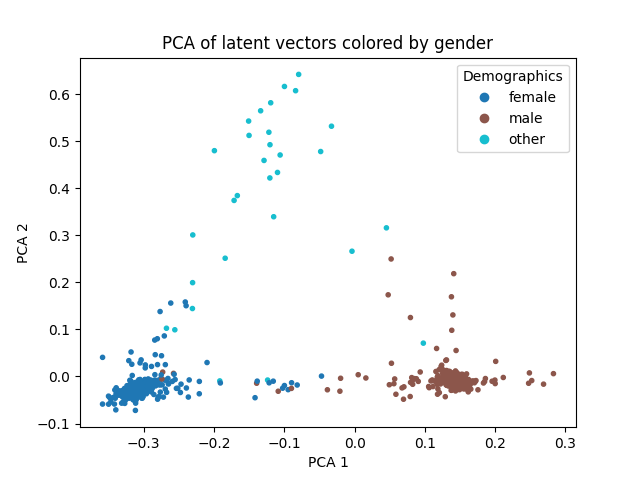
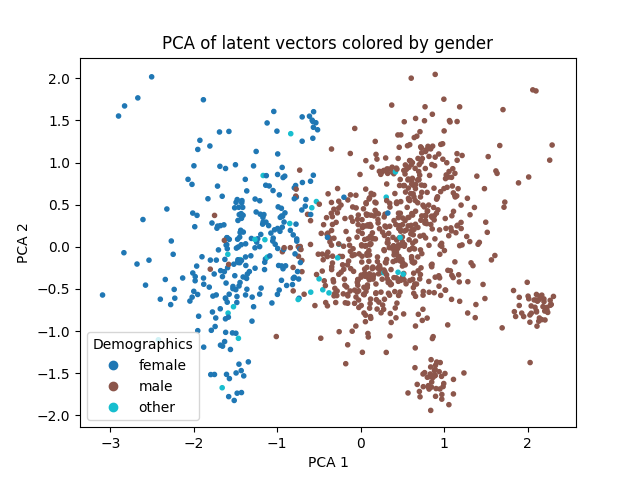
Steamline synthesis

diff --git a/ps_vae/data/vctk.py b/ps_vae/data/vctk.py
@@ -3,43 +3,57 @@ import torch
 import pickle
 from torch.utils.data import Dataset, DataLoader, random_split
 from typing import Dict, Union, Callable
+from ps_vae.utils import map_vctk_gender_to_label
+import pandas as pd
+
+METADATA_TRANSFORMS = {
+    "gender": lambda x: map_vctk_gender_to_label(x['gender']),
+}
 
 class VCTKEmbeddingDataset(Dataset):
-    def __init__(self, data_root: str, split: str = "train"):
+    def __init__(self, data_root: str, split: str = "train", metadata_transform: Union[str, None] = None):
         """
         Initialize the VCTK dataset.
 
         Args:
             data_root (str): Root directory containing speaker directories (e.g., "p001", "p002", ...).
             split (str): Data split indicator (unused in this version, kept for consistency).
+            metadata_transform (str, optional): Metadata transformation to apply to each sample. Defaults to None.
         """
         self.data_root = data_root
+        
+         # Setup function to parse metadata
+        if metadata_transform is not None:
+            assert metadata_transform in METADATA_TRANSFORMS, f"Invalid metadata transform: {metadata_transform}"
+            self.metadata_transform = METADATA_TRANSFORMS[metadata_transform]
+        else:
+            self.metadata_transform = None
+            
+        # Read metadata file
+        self.metadata = pd.read_csv(os.path.join(data_root, "vctk_metadata.csv"))
+        
         # Build a list of tuples: (embedding_file_path, speaker_id)
         self.data_files = []
 
-        # Loop over each speaker directory in the data_root that follows the "pXXX" pattern.
-        for speaker_dir in sorted(os.listdir(data_root)):
-            speaker_path = os.path.join(data_root, speaker_dir)
-            if os.path.isdir(speaker_path) and speaker_dir.startswith("p") and speaker_dir[1:].isdigit():
-                # Extract speaker ID by stripping the 'p' and converting the rest to an integer.
-                speaker_id = int(speaker_dir[1:])
-                # List all .pkl files in the speaker directory.
-                embedding_files = [f for f in os.listdir(speaker_path) if f.endswith(".pt")]
-                embedding_files.sort()
-                # Append each file's full path along with the speaker ID.
-                for file in embedding_files:
-                    full_path = os.path.join(speaker_path, file)
-                    self.data_files.append((full_path, speaker_id))
-
     def __len__(self):
-        return len(self.data_files)
+        return len(self.metadata)
 
     def __getitem__(self, idx: int):
-        embedding_file, speaker_id = self.data_files[idx]
-        # Load the embedding from the pkl file.
-        with open(embedding_file, "rb") as f:
-            embedding = torch.load(f, map_location='cpu', weights_only=False).squeeze()
-        return embedding, speaker_id
+        
+        sample_data = self.metadata.iloc[idx]
+        
+        filename = sample_data['filename'].replace('.wav', '.pt')
+        speaker_id = sample_data['speaker_id']
+
+        if self.metadata_transform is not None:  # Apply transform if provided
+            metadata = self.metadata_transform(sample_data)
+
+        else:
+            # Load embedding
+            embed_file = os.path.join(self.data_root, f"p{speaker_id}", filename)
+            embed = torch.load(embed_file, weights_only=True)
+
+            return embed.squeeze(), metadata
 
 def get_vctk_dataloaders(
     dataset_kwargs: Dict = {},
@@ -82,3 +96,12 @@ def get_vctk_dataloaders(
         return DataLoader(
             dataset, batch_size=batch_size, collate_fn=collate_fn, **dataloader_kwargs
         )
+
+if __name__ == "__main__":
+    
+    data_root = "/project/shrikann_35/nmehlman/psg_data/vctk_embeds/"
+    
+    dset = VCTKEmbeddingDataset(data_root)
+    for x,y in dset:
+        print(x.shape, y)
+        break

diff --git a/ps_vae/inference.py b/ps_vae/inference.py
@@ -3,6 +3,7 @@ import torch
 import os
 from torch import Tensor
 from tqdm import tqdm
+import argparse
 import torch.nn.functional as F
 
 def unconditional_synthesis(vae_model: PseudoSpeakerVAE, num_samples: int) -> Tensor:
@@ -84,7 +85,7 @@ def conditional_synthesis(
         
         z.requires_grad_()
         
-        pbar.set_postfix({"Log Likelihood": log_p_z_given_y.mean().item()})
+        pbar.set_postfix({f"Log Likelihood": log_p_z_given_y.mean().item(), "Classifier Prob": log_p_y_given_z.exp().mean().item()})
     
     x_hat = vae_model.decode(z).detach().cpu()
     
@@ -96,17 +97,35 @@ def conditional_synthesis(
 
 if __name__ == "__main__":
     
-    VAE_CKPT_PATH = "/project/shrikann_35/nmehlman/logs/ps_vae/cv_freevc_01/version_1/checkpoints/epoch=199-step=29800.ckpt"
-    N_SAMPLES = 16
-    SAVE_DIR = "/home1/nmehlman/arts/pseudo_speakers/generated_embeddings"
-    
-    model = PseudoSpeakerVAE.load_from_checkpoint(VAE_CKPT_PATH)
-    
-    x_hat = unconditional_synthesis(
-        model, 
-        N_SAMPLES,
-    )
-    
-    
+    parser = argparse.ArgumentParser(description="Generate synthetic embeddings using a VAE model.")
+    parser.add_argument("--vae_ckpt_path", type=str, required=True, help="Path to the VAE checkpoint.")
+    parser.add_argument("--n_samples", type=int, default=16, help="Number of samples to generate.")
+    parser.add_argument("--save_dir", type=str, required=True, help="Directory to save the generated samples.")
+    parser.add_argument("--synthesis_type", type=str, choices=["conditional", "unconditional"], required=True, help="Type of synthesis: 'conditional' or 'unconditional'.")
+    parser.add_argument("--classifier_target", type=int, default=1, help="Target class for the classifier (only for conditional synthesis).")
+    parser.add_argument("--num_steps", type=int, default=5000, help="Number of gradient ascent steps (only for conditional synthesis).")
+    parser.add_argument("--step_size", type=float, default=0.01, help="Step size for gradient ascent (only for conditional synthesis).")
+    parser.add_argument("--noise_weight", type=float, default=1.0, help="Weight of the noise added during synthesis (only for conditional synthesis).")
+
+    args = parser.parse_args()
+
+    model = PseudoSpeakerVAE.load_from_checkpoint(args.vae_ckpt_path)
+
+    if args.synthesis_type == "conditional":
+        x_hat = conditional_synthesis(
+            model, 
+            classifier_target=args.classifier_target,
+            num_samples=args.n_samples,
+            num_steps=args.num_steps,
+            step_size=args.step_size,
+            noise_weight=args.noise_weight
+        )
+    elif args.synthesis_type == "unconditional":
+        x_hat = unconditional_synthesis(
+            model,
+            num_samples=args.n_samples
+        )
+
+    os.makedirs(args.save_dir, exist_ok=True)
     for i, x in enumerate(x_hat):
-        torch.save(x, os.path.join(SAVE_DIR, f"sample_{i}.pt"))        
+        torch.save(x, os.path.join(args.save_dir, f"sample_{i}.pt"))

diff --git a/freevc/speech_synthesis.py b/freevc/speech_synthesis.py
@@ -27,14 +27,23 @@ def run_embedding_conditioned_vc(
 if __name__ == "__main__":
     
     import tqdm
-    import random
     import os
+    import argparse
+
+    default_vc_ckpt_dir = "/home1/nmehlman/.local/share/tts/voice_conversion_models--multilingual--vctk--freevc24/" # Default
     
-    source_audio_file = random.choice(os.listdir("/project/shrikann_35/tiantiaf/arts/cv-corpus-11.0-2022-09-21/en/clips"))
-    source_audio_path = os.path.join("/project/shrikann_35/tiantiaf/arts/cv-corpus-11.0-2022-09-21/en/clips", source_audio_file)
-    embedding_dir = "/home1/nmehlman/arts/pseudo_speakers/generated_embeddings"
-    save_dir = "/home1/nmehlman/arts/pseudo_speakers/audio_samples/synthetic_embeds_cv"
-    vc_ckpt_dir = "/home1/nmehlman/.local/share/tts/voice_conversion_models--multilingual--vctk--freevc24/"
+    parser = argparse.ArgumentParser(description="Run voice conversion using FreeVC.")
+    parser.add_argument("--source_audio_path", type=str, required=True, help="Path to the source audio file.")
+    parser.add_argument("--embedding_dir", type=str, required=True, help="Directory containing speaker embeddings.")
+    parser.add_argument("--save_dir", type=str, required=True, help="Directory to save the converted audio files.")
+    parser.add_argument("--vc_ckpt_dir", type=str, default=default_vc_ckpt_dir, help="Path to the FreeVC checkpoint directory.")
+    
+    args = parser.parse_args()
+    
+    source_audio_path = args.source_audio_path
+    embedding_dir = args.embedding_dir
+    save_dir = args.save_dir
+    vc_ckpt_dir = args.vc_ckpt_dir
 
     # Load the FreeVC model
     model = load_freevc_model(vc_ckpt_dir)

diff --git a/analysis/embedding_similarity_plot.py b/analysis/embedding_similarity_plot.py
@@ -1,0 +1,40 @@
+import os
+import torch
+import seaborn as sns
+from sklearn.metrics.pairwise import cosine_similarity
+import argparse
+
+import matplotlib.pyplot as plt
+
+if __name__ == "__main__":
+
+    # Set up argument parser
+    parser = argparse.ArgumentParser(description="Compute and plot pair-wise cosine similarity of .pt vectors.")
+    parser.add_argument("directory", type=str, help="Directory containing the .pt files.")
+    args = parser.parse_args()
+
+    # Directory containing the .pt files
+    directory = args.directory
+
+    # Load all .pt vectors
+    vectors = []
+    file_names = []
+    embedding_files = [f for f in os.listdir(directory) if f.endswith('.pt')]
+    for file_name in sorted(embedding_files, key=lambda x: int(x.split('_')[1].replace('.pt', ''))):
+        if file_name.endswith('.pt'):
+            file_path = os.path.join(directory, file_name)
+            vector = torch.load(file_path).squeeze()
+            vectors.append(vector.detach().numpy())
+            file_names.append(file_name)
+
+    # Compute pair-wise cosine similarity
+    cosine_sim_matrix = cosine_similarity(vectors)
+
+    # Plot the cosine similarity matrix
+    plt.figure(figsize=(12, 10))
+    sns.heatmap(cosine_sim_matrix, xticklabels=file_names, yticklabels=file_names, annot=True, cmap='coolwarm')
+    plt.title('Pair-wise Cosine Similarity')
+    
+    # Save
+    output_path = os.path.join(directory, 'cosine_similarity_matrix.png')
+    plt.savefig(output_path)

diff --git a/analysis/plot_embeddings.py b/analysis/plot_embeddings.py
@@ -3,7 +3,7 @@ from sklearn.manifold import TSNE
 from sklearn.decomposition import PCA
 import matplotlib.pyplot as plt
 import os
-from ps_vae.data import CVEmbeddingDataset
+from ps_vae.data.cv import CVEmbeddingDataset
 from ps_vae.lightning import PseudoSpeakerVAE
 from typing import Callable, List, Optional
 
@@ -64,15 +64,16 @@ if __name__ == "__main__":
     N_SAMPLES = 1000
     DEMOGRAPHIC = "gender"
     APPLY_AGE_GROUPINGS = True
-    MODEL_CKPT = '/project/shrikann_35/nmehlman/logs/ps_vae/train_03_with_gender_classifier/version_0/checkpoints/epoch=165-step=12447.ckpt'
+    MODEL_CKPT = '/project/shrikann_35/nmehlman/logs/ps_vae/cv_freevc_gender_classifier/version_1/checkpoints/epoch=199-step=29800.ckpt'
     DATA_ROOT = "/project/shrikann_35/tiantiaf/arts/cv-corpus-11.0-2022-09-21/en/"
+    SE_MODEL = "vc"
     SAVE_AS = "/home1/nmehlman/arts/pseudo_speakers/pseudo_speaker_VAE/plots/vae_latent_gender+classifier.png"
     USE_TSNE = False  # Set to True to use TSNE, False to use PCA
     
-    filter_fcn = lambda sample: sample['accents'] == 'United States English'
+    filter_fcn = None #lambda sample: sample['accents'] == 'United States English'
     stratification_fcn = None
     
-    dataset = CVEmbeddingDataset(DATA_ROOT, split="train")
+    dataset = CVEmbeddingDataset(DATA_ROOT, split="train", se_model=SE_MODEL)
 
     if MODEL_CKPT:
         model = PseudoSpeakerVAE.load_from_checkpoint(MODEL_CKPT)

diff --git a/ps_vae/utils.py b/ps_vae/utils.py
@@ -118,3 +118,18 @@ def map_cv_gender_to_label(gender):
     }
     return gender_mapping.get(gender, -1)  # Returns -1 if gender is not in the mapping
 
+def map_vctk_gender_to_label(gender):
+    """
+    Maps a single gender category to a numerical label.
+
+    Args:
+        gender (str): Gender category as a string.
+
+    Returns:
+        int: Numerical gender label.
+    """
+    gender_mapping = {
+        'M': 0,
+        'F': 1,
+    }
+    return gender_mapping.get(gender, -1)  # Returns -1 if gender is not in the mapping
